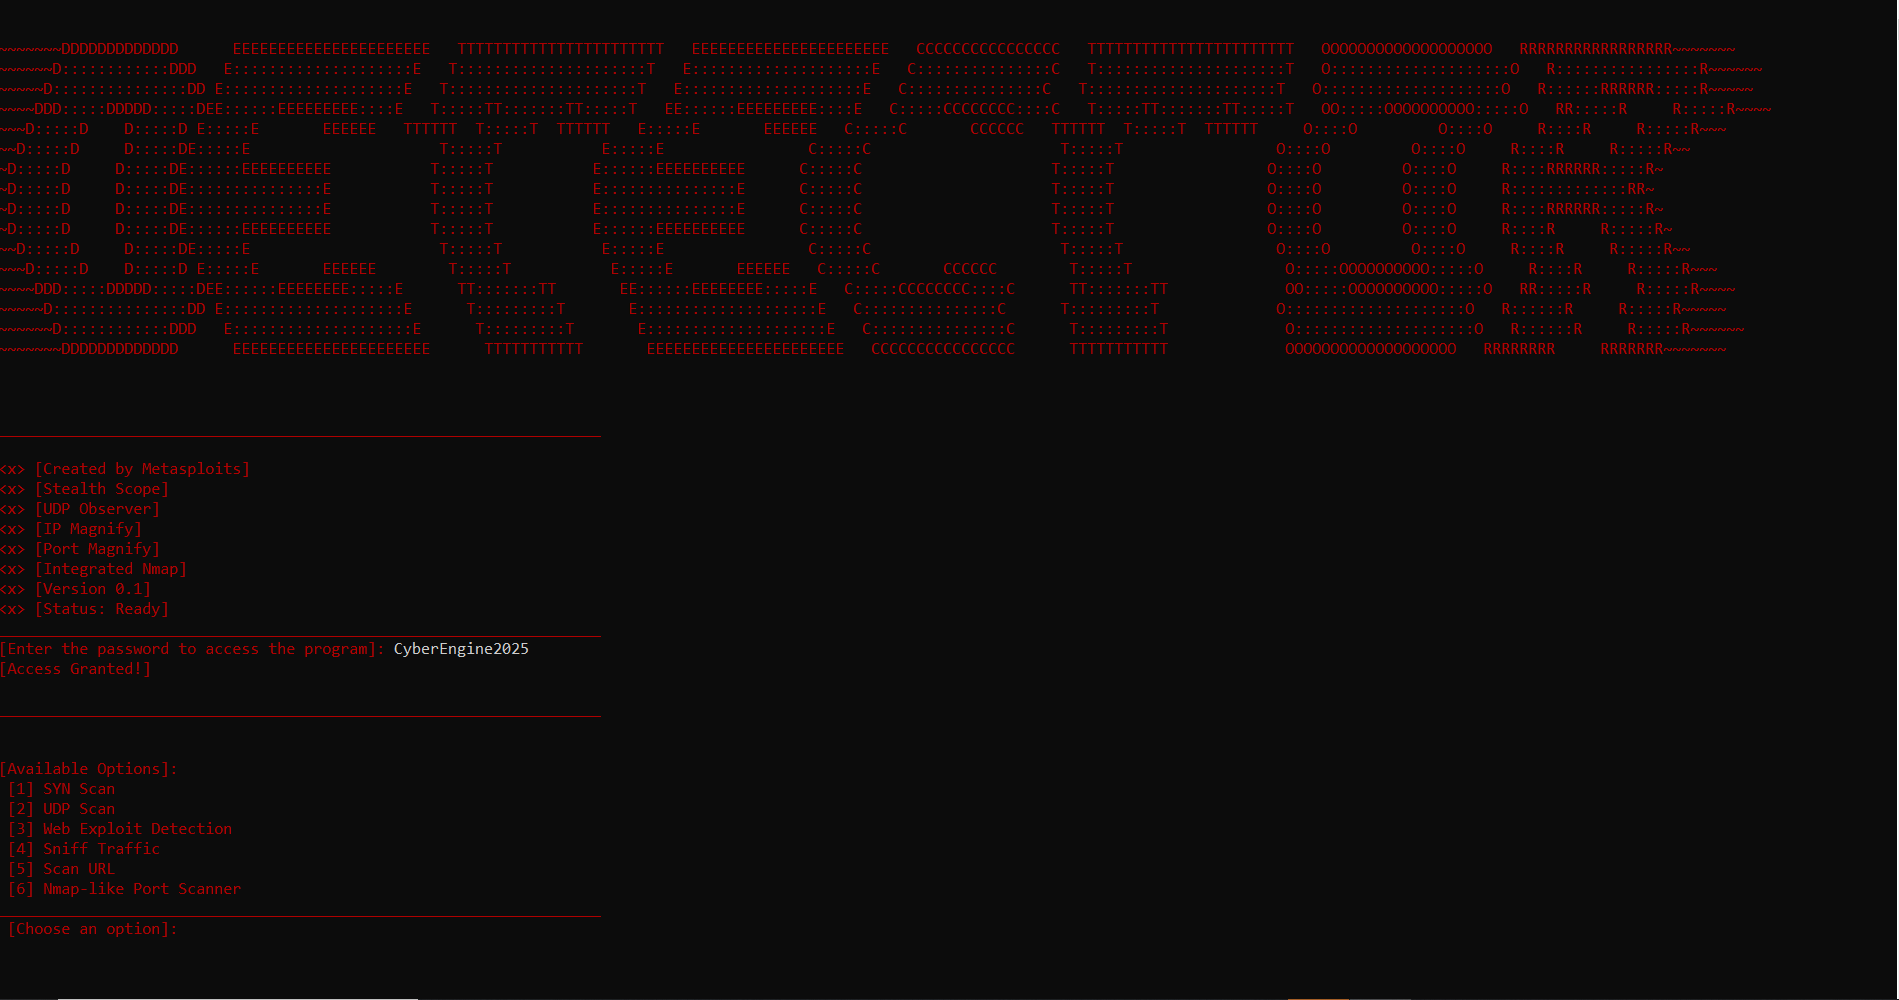
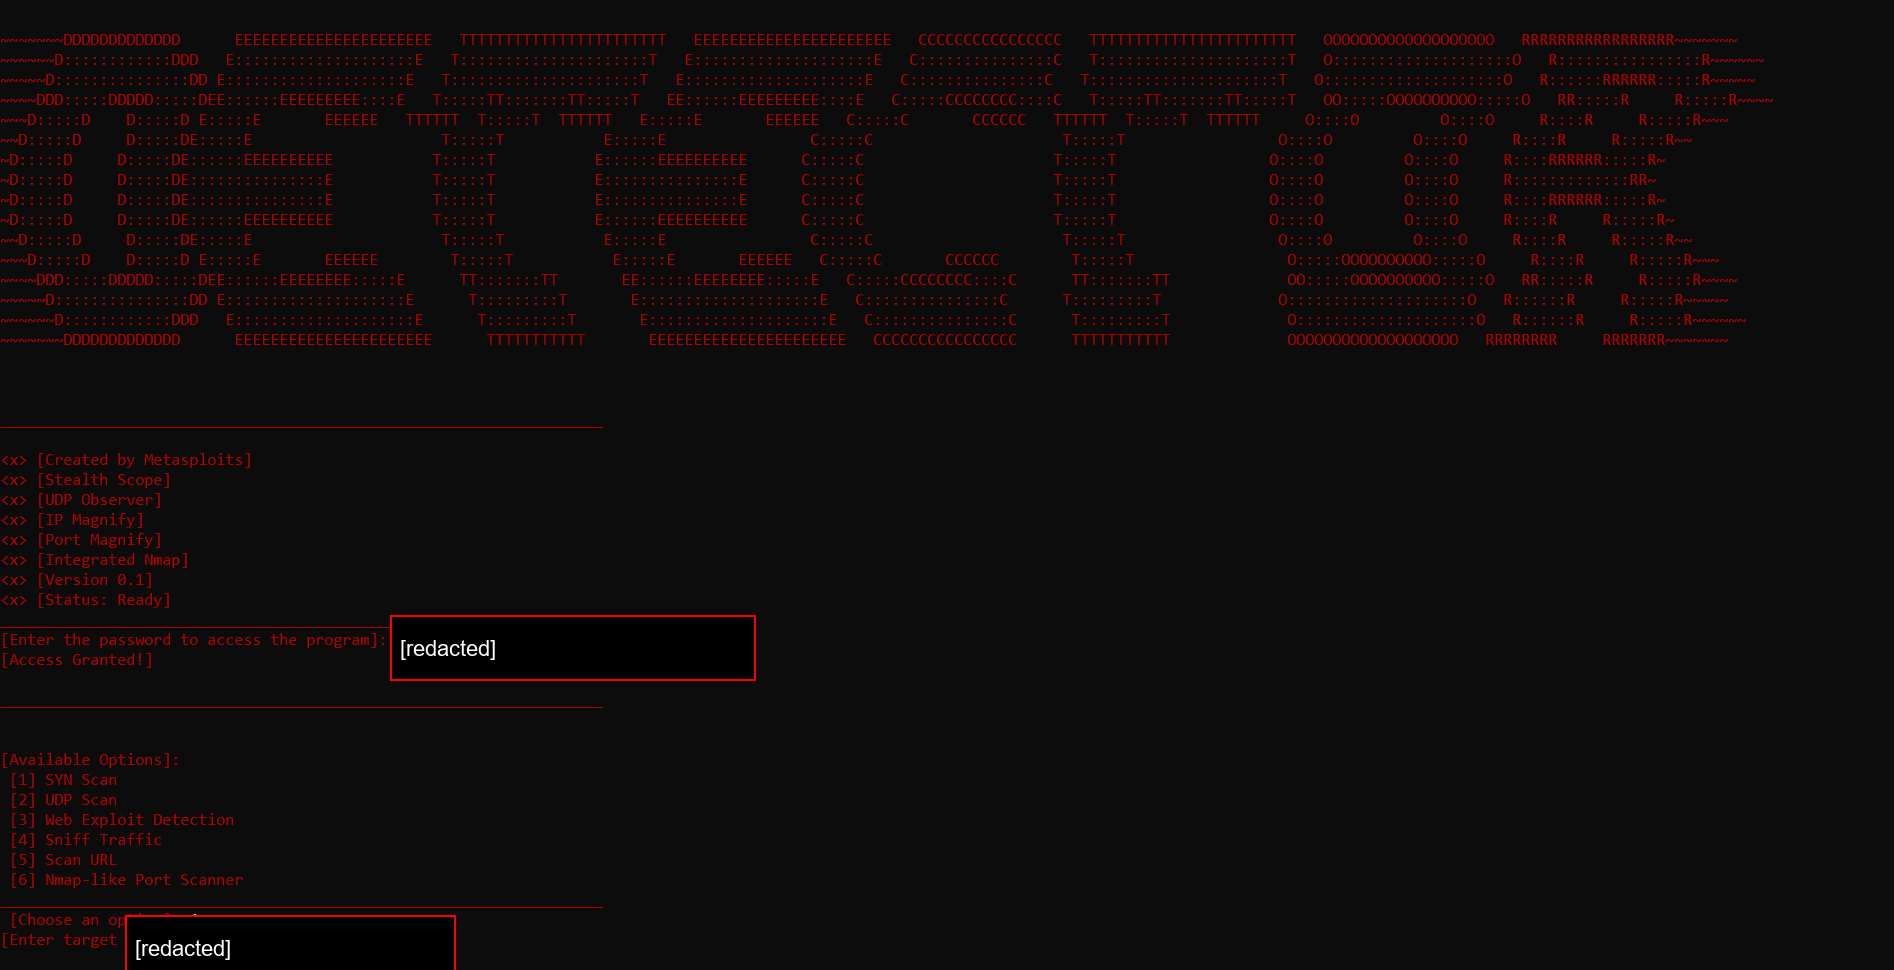
Add sanitized network detector screenshots
# Conflicts:
#	projects/images/network-detection/network-detector-03.png
#	projects/images/network-detection/network-detector-04.png

diff --git a/projects/network-detection-script/README.md b/projects/network-detection-script/README.md
@@ -51,7 +51,7 @@ This project was used only on systems and network traffic that I owned or had pe
 
 ## Steps
 
-Every published screenshot includes a short explanation of what is being shown. Screenshots that displayed the program's access password were intentionally excluded from the public portfolio.
+Every published screenshot includes a short explanation of what is being shown. Screenshots that displayed an access password or target value were redacted before publication.
 
 ### Ref 1: DNS and Packet Detection
 
@@ -69,6 +69,22 @@ This screenshot shows the detector observing traffic generated by the local mach
 
 ---
 
+### Ref 3: Detector Menu and Sniff Traffic Option
+
+![Detector tool menu with sensitive values redacted](../images/network-detection/network-detector-03.png)
+
+This screenshot shows the DETECTOR program menu after access was granted. The menu includes options for SYN scanning, UDP scanning, web exploit detection, traffic sniffing, URL scanning, and an Nmap-like port scanner. The access password and target value were redacted before publishing.
+
+---
+
+### Ref 4: Traffic Sniffer Menu on My Own Wi-Fi
+
+![Detector traffic sniffer menu with sensitive values redacted](../images/network-detection/network-detector-04.png)
+
+This screenshot shows the traffic-sniffer workflow being selected on my own Wi-Fi environment. The sniffer menu provides an option to start traffic capture or return to the main menu, while sensitive input values are redacted for safe public documentation.
+
+---
+
 ## My Contribution
 
 My main contributions were:
@@ -78,7 +94,7 @@ My main contributions were:
 - Reviewed Ethernet, IP, TCP, UDP, and DNS packet output.
 - Added visible DNS-query detection to make domain activity easier to identify.
 - Compared detected DNS events with the surrounding transport-layer traffic.
-- Documented the tool's output while excluding screenshots that exposed an access password.
+- Documented the tool's output while redacting screenshots that exposed an access password or target value.
 
 ---
 

diff --git a/projects/network-detection-script.md b/projects/network-detection-script.md
@@ -44,7 +44,7 @@ This project was used only on systems and network traffic that I owned or had pe
 
 ## Steps
 
-Every published screenshot includes a short explanation of what is being shown. Screenshots that displayed the program's access password were intentionally excluded from the public portfolio.
+Every published screenshot includes a short explanation of what is being shown. Screenshots that displayed an access password or target value were redacted before publication.
 
 ### Ref 1: DNS and Packet Detection
 
@@ -62,6 +62,22 @@ This screenshot shows the detector observing traffic generated by the local mach
 
 ---
 
+### Ref 3: Detector Menu and Sniff Traffic Option
+
+![Detector tool menu with sensitive values redacted](images/network-detection/network-detector-03.png)
+
+This screenshot shows the DETECTOR program menu after access was granted. The menu includes options for SYN scanning, UDP scanning, web exploit detection, traffic sniffing, URL scanning, and an Nmap-like port scanner. The access password and target value were redacted before publishing.
+
+---
+
+### Ref 4: Traffic Sniffer Menu on My Own Wi-Fi
+
+![Detector traffic sniffer menu with sensitive values redacted](images/network-detection/network-detector-04.png)
+
+This screenshot shows the traffic-sniffer workflow being selected on my own Wi-Fi environment. The sniffer menu provides an option to start traffic capture or return to the main menu, while sensitive input values are redacted for safe public documentation.
+
+---
+
 ## My Contribution
 
 My main contributions were:
@@ -71,7 +87,7 @@ My main contributions were:
 - Reviewed Ethernet, IP, TCP, UDP, and DNS packet output.
 - Added visible DNS-query detection to make domain activity easier to identify.
 - Compared detected DNS events with the surrounding transport-layer traffic.
-- Documented the tool's output while excluding screenshots that exposed an access password.
+- Documented the tool's output while redacting screenshots that exposed an access password or target value.
 
 ---
 
